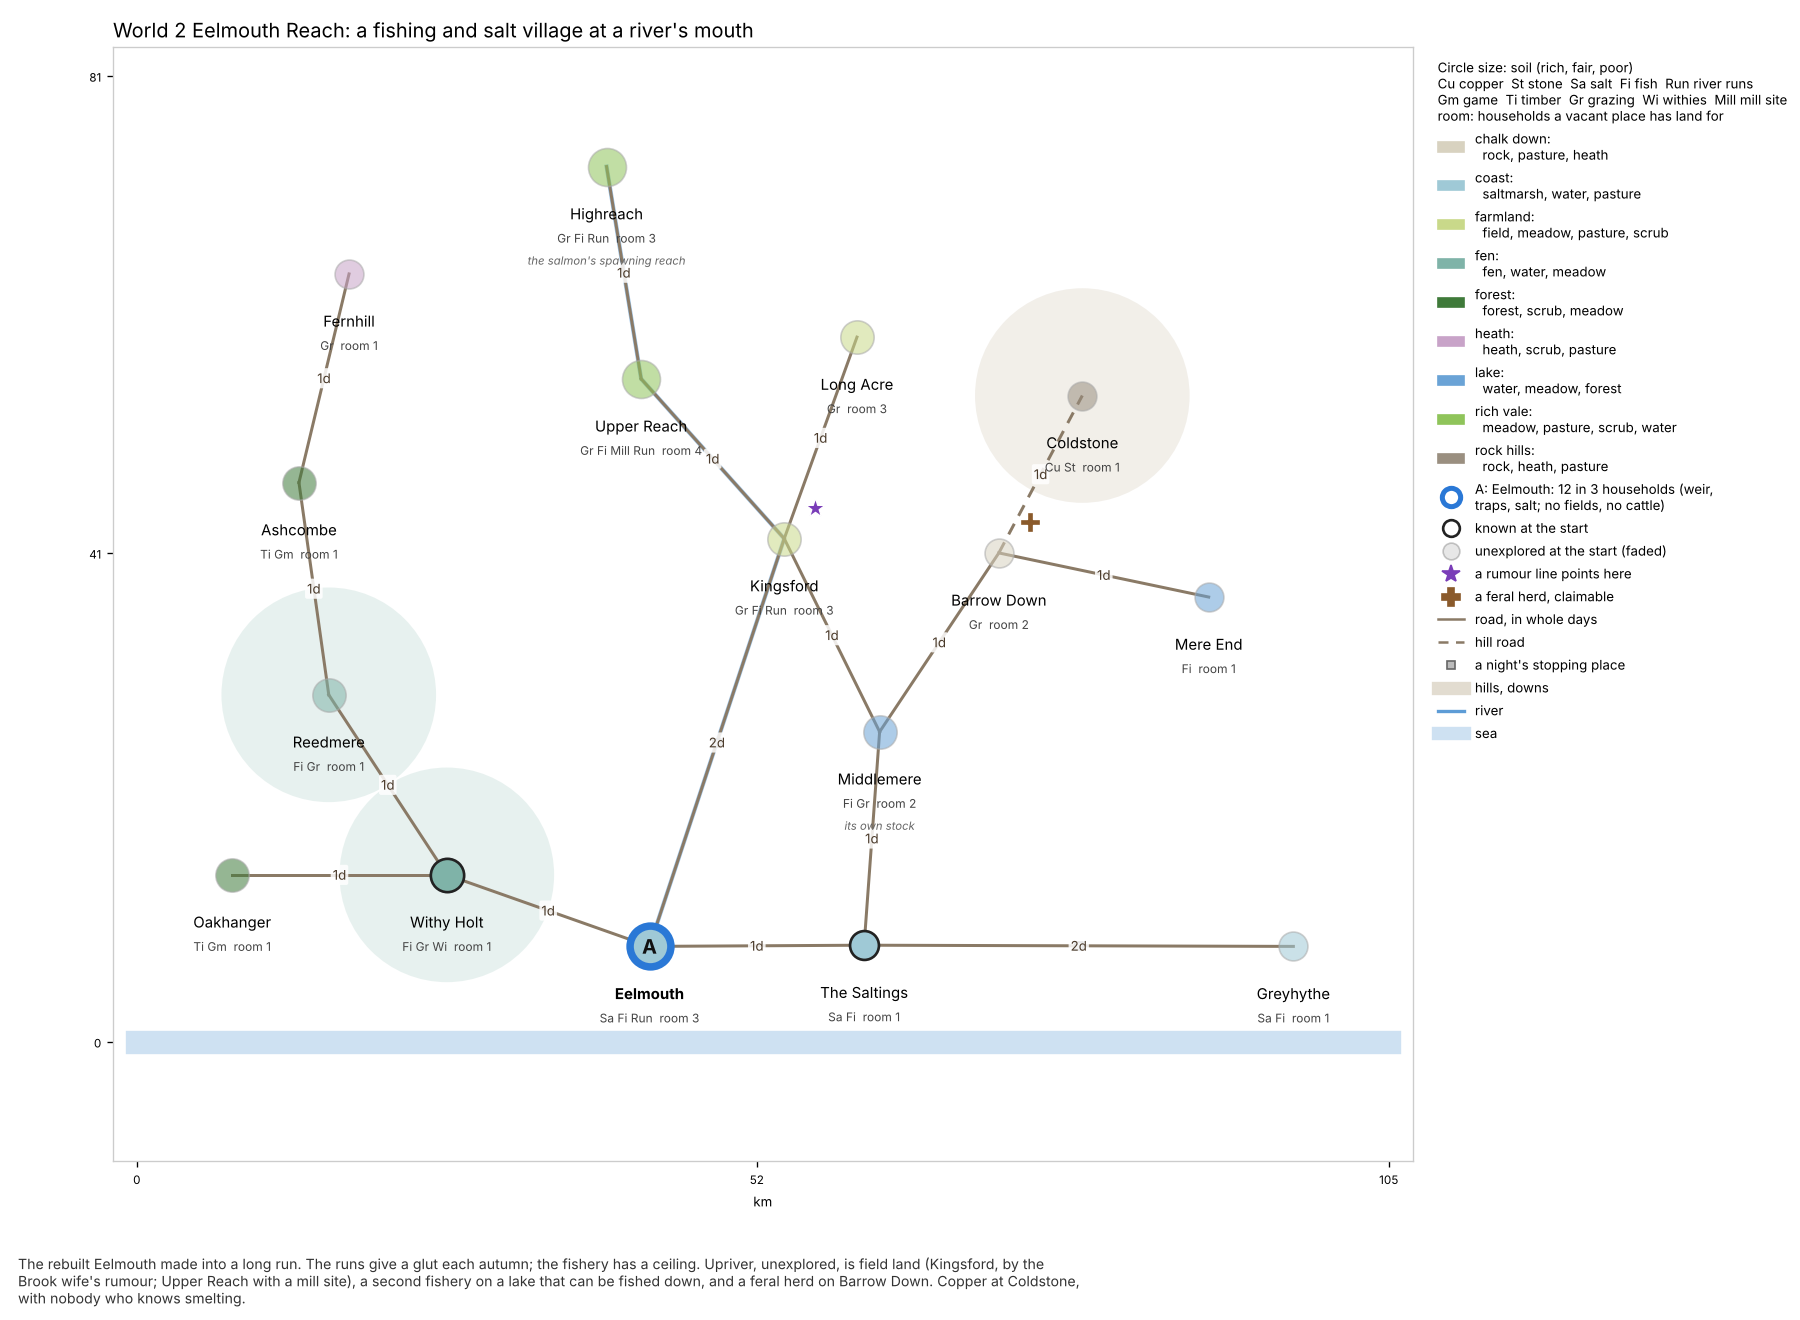
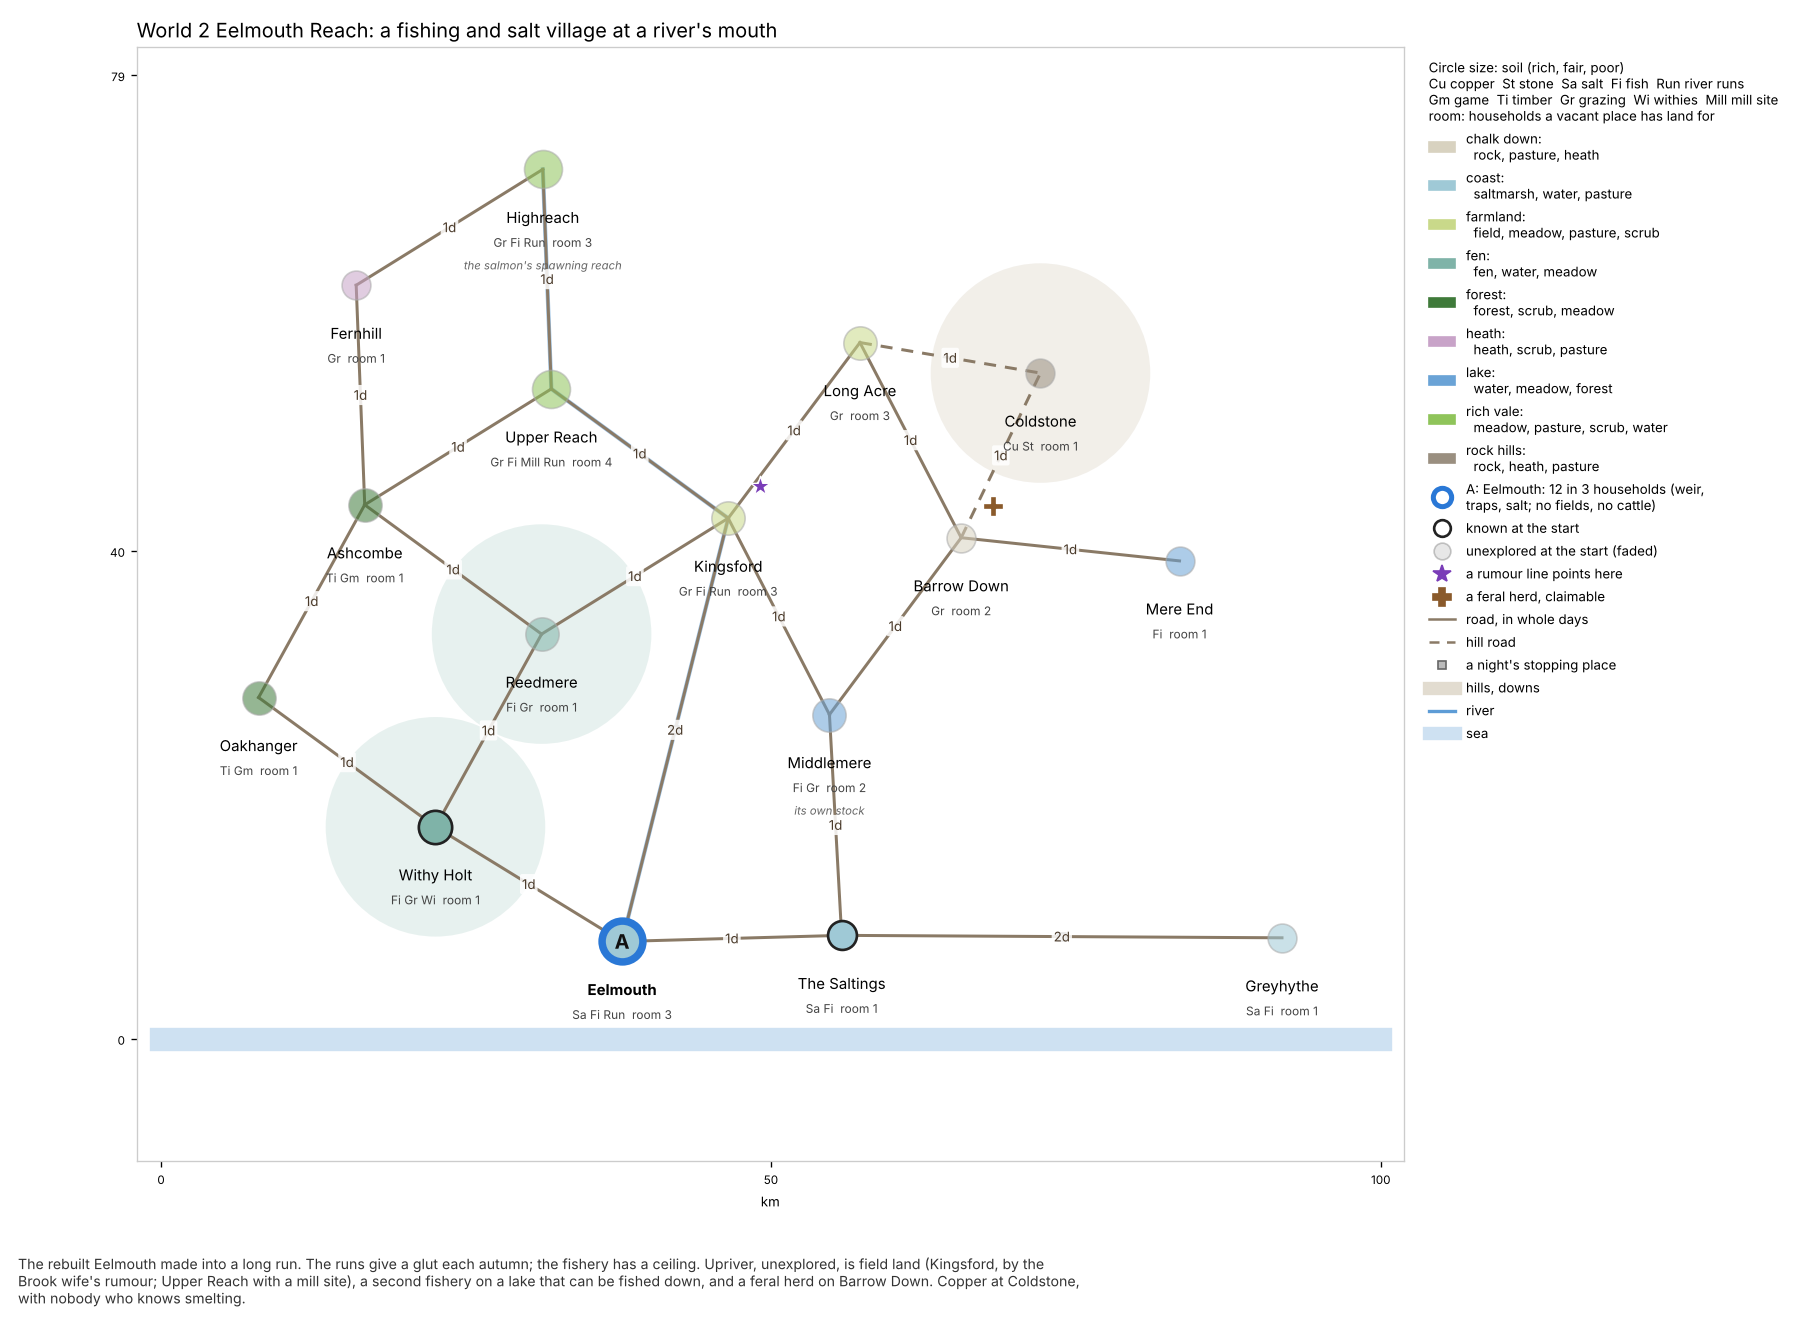
design W-103: monoculture worlds: cross-roads so the road networks are meshes, trees only where the land is the reason
Agent: bench
Thread: W-103

diff --git a/docs/review/39_monoculture/design.py b/docs/review/39_monoculture/design.py
@@ -195,6 +195,30 @@ WORLDS["M5"] = {
               R("Lowbury", "Wheatley", 1), R("Wheatley", "Southmere", 1), R("Hartsmoot", "Deepwood", 1), R("Hartsmoot", "Oakhurst", 1)],
 }
 
+# Cross-roads (Zach, 23 Nov: the first maps were trees from home, "this feels potentially unrealistic ... should be a purposeful design
+# choice"). Lowland and vale country is a mesh of lanes; fen and mountain stay sparse where the land is the reason. Each added road
+# keeps every place's distance from home as designed, and in World 5 keeps the homes 4 days apart.
+CROSS = {
+    "M1": [R("The Ford", "Southmead", 1), R("Thornheath", "Hartwood", 1), R("Thornheath", "Greenhythe", 1),
+           R("Upper Hollins", "Ashen Down", 1), R("Ashen Down", "Longmere", 2), R("Hartwood", "Stonebarrow", 1, True),
+           R("Wolfcombe", "Highbarrow", 2, True), R("Far Meadows", "Eastmarch", 1)],
+    "M2": [R("Reedmere", "Kingsford", 1), R("Ashcombe", "Upper Reach", 1), R("Fernhill", "Highreach", 1), R("Long Acre", "Barrow Down", 1),
+           R("Long Acre", "Coldstone", 1, True), R("Oakhanger", "Ashcombe", 1)],
+    "M3": [R("Mosslake", "Lowdale", 1), R("Oak Clough", "Lowdale", 1), R("Southmoss", "Fordham", 1), R("Wolf Scar", "Lower Fold", 1, True)],
+    "M4": [R("Coldharbour", "Highdown", 1), R("Highdown", "Longdown", 1), R("Longdown", "Hamwell", 1), R("Oakley", "Coldharbour", 1),
+           R("Fernbrook", "Westcot", 1), R("Marsh End", "Southwold", 1)],
+    "M5": [R("Cove", "Midwold", 1), R("Stonefell", "Midwold", 1, True), R("Coppermount", "Fernmoor", 1, True), R("Millbrook", "Fernmoor", 1),
+           R("Wheatley", "Marchmead", 1), R("Oakhurst", "Southfold", 1), R("Greyhaven", "Southfold", 1), R("Deepwood", "Southmere", 2)],
+}
+TREE_BY_DESIGN = {   # where a branch is left without a way round, and why
+    "M2": "Greyhythe stays the end of the shore road: an open coast two days out, with nothing beyond it",
+    "M3": "the heights are valley heads joined only by the pass: in winter the way round is through the lowland, 8 days",
+    "M5": "each country is reached from the middle by its gate, with one side door; the homes stay 4 days apart",
+}
+for _k, _r in CROSS.items():
+    WORLDS[_k]["tree_roads"] = list(WORLDS[_k]["roads"])
+    WORLDS[_k]["roads"] = WORLDS[_k]["roads"] + _r
+
 for _w in WORLDS.values():
     _w["fit_err_km"] = round(fit(_w), 1)
 

diff --git a/docs/review/39_monoculture/topology.py b/docs/review/39_monoculture/topology.py
@@ -1,0 +1,46 @@
+"""Road-network figures for the designed worlds (design.py): loops (roads - places + 1), dead ends, the farthest place from the first
+home, the homes' distances apart, and each place's days from home before and after the cross-roads.
+
+    cd docs/review/39_monoculture && python3 topology.py
+"""
+import collections
+import heapq
+
+import design as D
+
+
+def dist(roads, s):
+    adj = collections.defaultdict(list)
+    for a, b, d, _ in roads:
+        adj[a].append((b, d))
+        adj[b].append((a, d))
+    out, q = {s: 0}, [(0, s)]
+    while q:
+        c, u = heapq.heappop(q)
+        if c > out[u]:
+            continue
+        for v, d in adj[u]:
+            if c + d < out.get(v, 1e9):
+                out[v] = c + d
+                heapq.heappush(q, (c + d, v))
+    return out, adj
+
+
+def stats(w, roads):
+    homes = [p["name"] for p in w["places"] if p["kind"].startswith("home")]
+    dh, adj = dist(roads, homes[0])
+    names = [p["name"] for p in w["places"]]
+    apart = [dist(roads, a)[0][b] for i, a in enumerate(homes) for b in homes[i + 1:]]
+    return {"places": len(names), "roads": len(roads), "loops": len(roads) - len(names) + 1,
+            "dead ends": sum(1 for n in names if len(adj[n]) == 1), "farthest": max(dh.values()),
+            "homes apart": (min(apart), max(apart)) if apart else "-", "from home": dh}
+
+
+if __name__ == "__main__":
+    print("| World | Places | Roads before → after | Loops before → after | Dead ends before → after | Farthest from home | Homes apart (days) |")
+    print("|---|---|---|---|---|---|---|")
+    for k, w in D.WORLDS.items():
+        a, b = stats(w, w.get("tree_roads", w["roads"])), stats(w, w["roads"])
+        changed = [n for n in a["from home"] if a["from home"][n] != b["from home"][n]]
+        print(f"| {k} | {a['places']} | {a['roads']} → {b['roads']} | {a['loops']} → {b['loops']} | {a['dead ends']} → {b['dead ends']} "
+              f"| {a['farthest']} → {b['farthest']} | {a['homes apart']} → {b['homes apart']} |" + (f" changed: {changed}" if changed else ""))

diff --git a/docs/cybertron2/proposals/monoculture_five_worlds.md b/docs/cybertron2/proposals/monoculture_five_worlds.md
@@ -521,6 +521,33 @@ At lifespan 64 the acting people (youths, adults and elders) are about 70% of th
     systems).
   - *Default:* World 1.
 
+## Road networks: meshes by default, trees only by design
+
+Zach (23 Nov): "This feels a lot like a tree or things traveling away from a root node ... with no ways to travel between other nodes
+... Sometimes this can still be the case but should be a purposeful design choice". The first maps were close to trees: one or two
+loops in 15 to 18 places, 4 to 7 dead ends. The runs world under World 0, which the generator made, has 3 loops in 10 places.
+
+**The rule these worlds now follow.** Lowland and vale country is a mesh of lanes; a branch with no way round is left only where the
+land is the reason (a valley head, the end of a shore, a lake at a road's end), and it is named. Cross-roads keep every place's days
+from home as designed, and in World 5 keep the homes 4 days apart.
+
+| World | Roads | Loops | Dead ends | Farthest from home (days) | Left as a branch, by design |
+|---|---|---|---|---|---|
+| 1 Fallowmere | 19 → 27 | 2 → 10 | 6 → 0 | 4 | none: lowland |
+| 2 Eelmouth Reach | 16 → 22 | 1 → 7 | 7 → 2 | 4 | Greyhythe, the end of the shore road; Mere End, a lake at a road's end |
+| 3 Highfold | 16 → 20 | 2 → 6 | 4 → 2 | 5 | the heights: the valley heads join only by the pass, so in winter the way round is through the lowland, 8 days; the lowland is a mesh |
+| 4 Oldbury | 17 → 23 | 1 → 7 | 6 → 0 | 3 | none; Westcot is reached two ways (by Oakley and by Fernbrook), 3 days either way |
+| 5 The Scattering | 27 → 35 | 4 → 12 | 9 → 1 | 6 | each country is reached by its gate and one side door; the homes stay 4 days apart |
+
+Figures from `docs/review/39_monoculture/topology.py`; the roads added are design.py's `CROSS`.
+
+**Why it matters for what is tested:**
+- In a tree, the order places are found is fixed by depth from home, and every trip out and back retraces one road.
+- In a tree, any two groups that split are joined by one path, so one blocked place cuts them off.
+- In a tree, every inner place is a chokepoint by accident. Chokepoints should be chosen (scenario_design §1), not left over from
+  how the map was drawn.
+- A mesh lets a people reach the same place two ways, meet others coming from another side, and choose routes.
+
 ## Maps
 
 docs/review/39_monoculture/ (made by `world0_map.py` and `draw.py` from `design.py`):
@@ -540,6 +567,8 @@ docs/review/39_monoculture/ (made by `world0_map.py` and `draw.py` from `design.
 
 ## History
 
+- 23 Nov 2026 (later): Zach noted the maps were trees from home. Cross-roads added to every world (§Road networks); trees kept only
+  where the land is the reason, and named.
 - 23 Nov 2026 (later): maps drawn (§Maps). World 0's map found copper at w4, a day from Highpool; World 5's map drawn new
   (110 km) rather than on W5's roads, which put the wood a day from the coast.
 - 23 Nov 2026 (later): Zach asked that the first world be small, with two connected villages, fishing and farming, to test the

diff --git a/docs/review/39_monoculture/README.md b/docs/review/39_monoculture/README.md
@@ -7,5 +7,6 @@ Session notes for proposals/monoculture_worlds.md and proposals/monoculture_five
 | `world0_map.py` → `world0_map.png`, `world0_flows.png` | World 0 (Highpool and Middleham) from `specs/water/runs.yaml`: the engine's places, covers, resources, wild land and rivers, with the design's households over them; and its dependencies |
 | `design.py` | the five designed worlds as data (places, land, soil, resources, room, known or unexplored, roads in days), fitted in km with `specs/peoples_design.fit` |
 | `draw.py` → `M1.png` to `M5.png` | their maps, in the form of the peoples maps (38_space_engine/69_peoples) |
+| `topology.py` | loops, dead ends and distances of each road network, before and after the cross-roads |
 
 Run from this folder: `python3 world0_map.py; python3 draw.py` (needs matplotlib and PyYAML).
